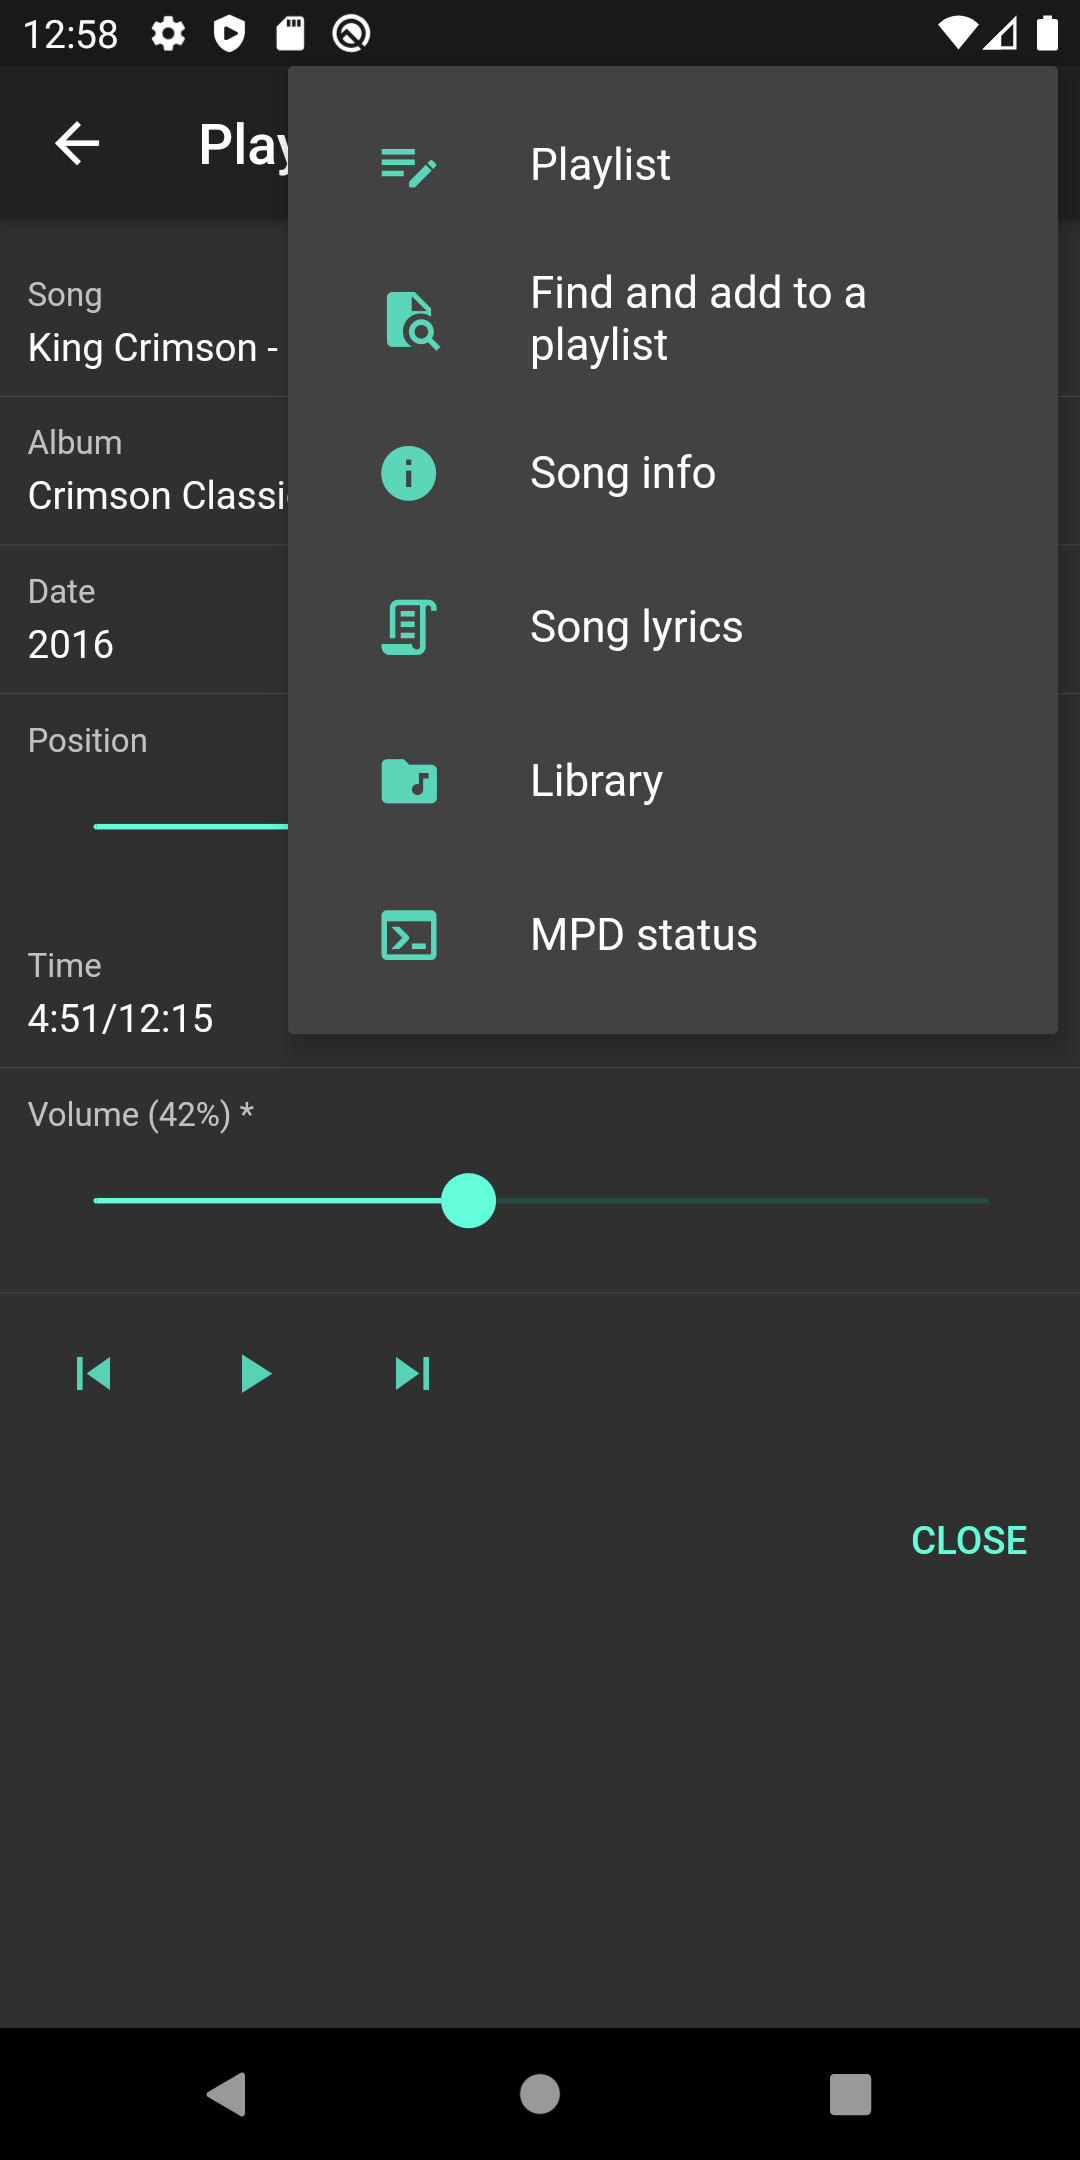
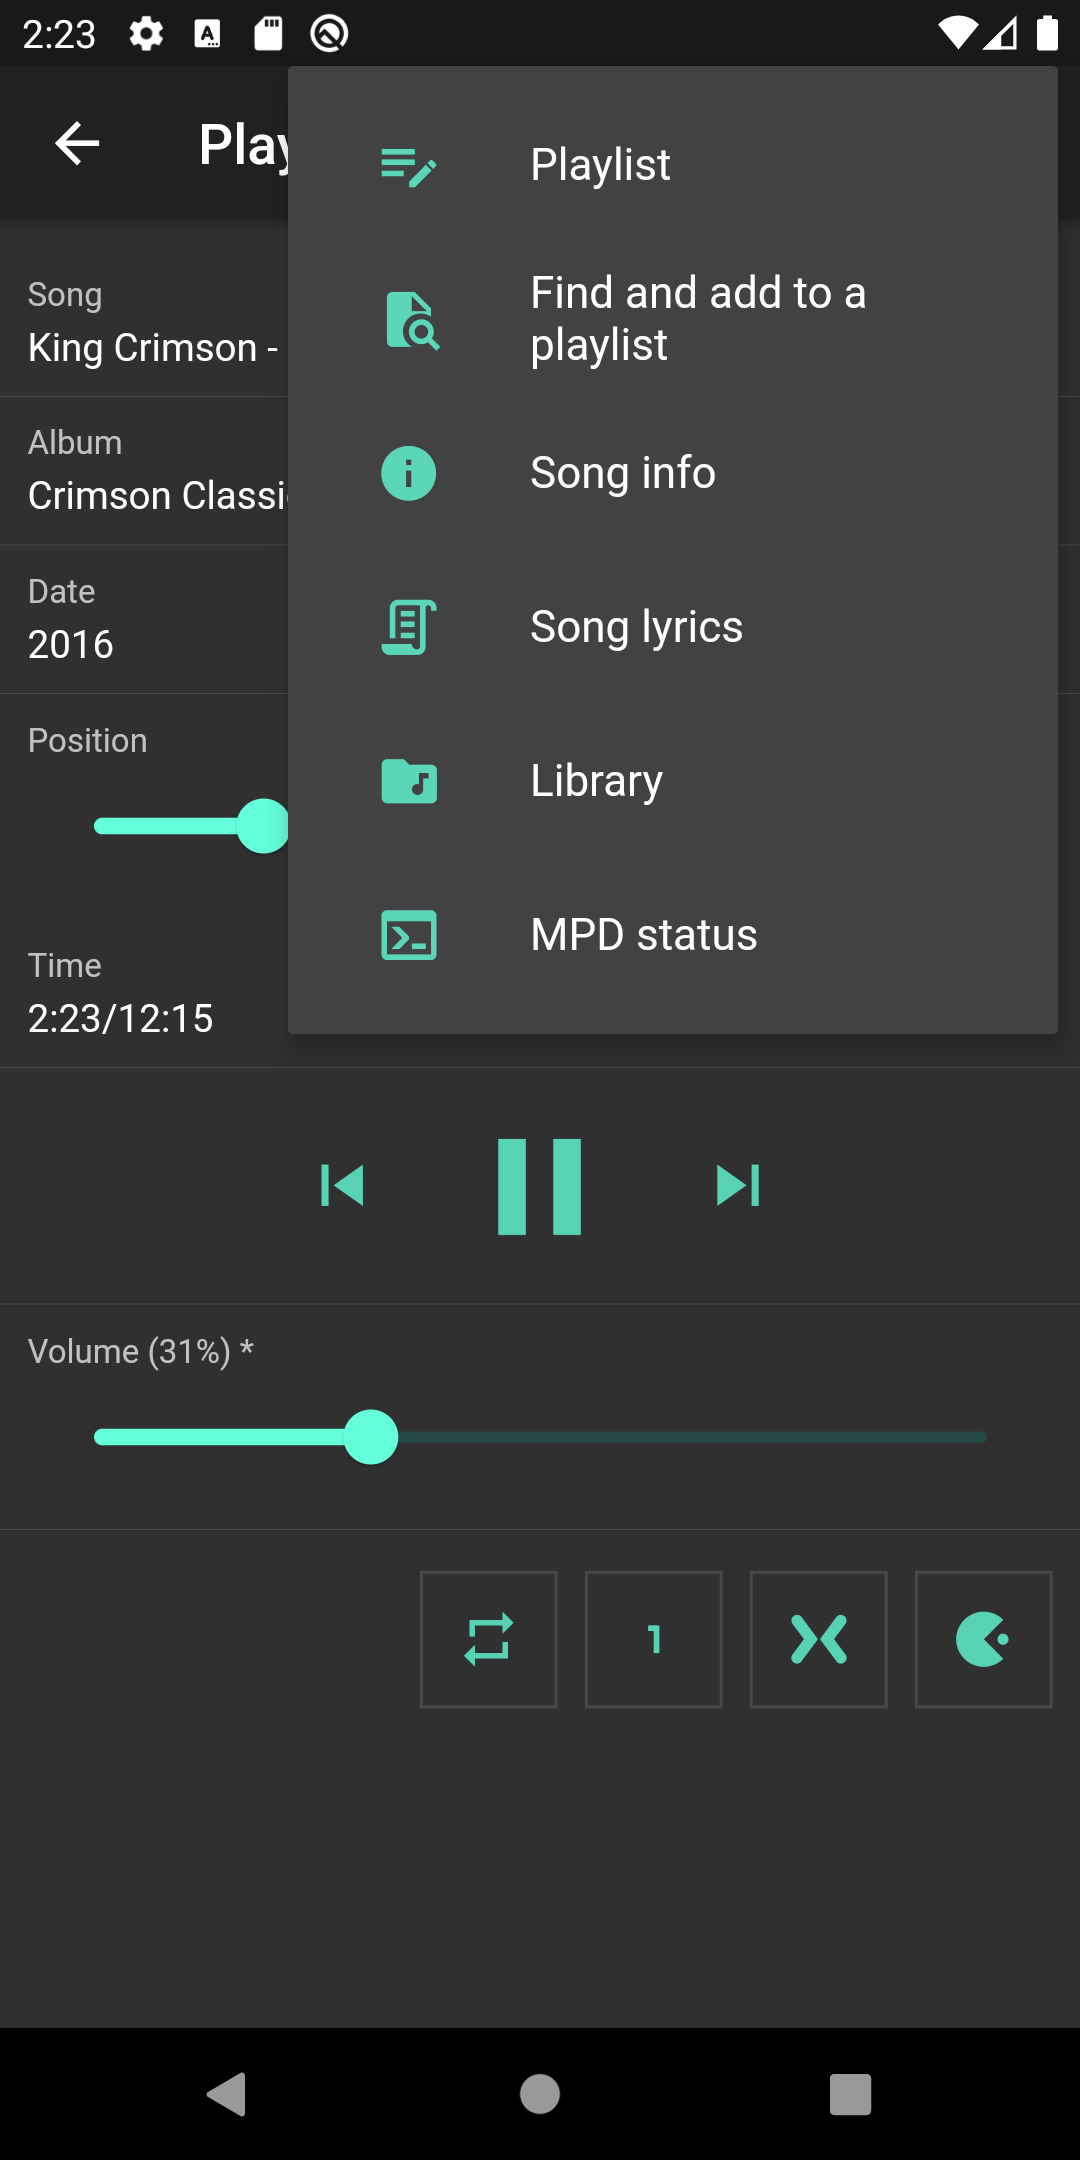
Enhancements in the MPD knowledge base.

diff --git a/sponge-kb/sponge-kb-mpd-mpc/src/main/resources/sponge/mpd-mpc/mpd_mpc_player.py b/sponge-kb/sponge-kb-mpd-mpc/src/main/resources/sponge/mpd-mpc/mpd_mpc_player.py
@@ -20,14 +20,27 @@ class MpdPlayer(Action):
                 ProvidedMeta().withValue().withOverwrite().withSubmittable()),
             StringType("time").withLabel("Time").withNullable().withReadOnly().withFeatures({"group":"position"}).withProvided(
                 ProvidedMeta().withValue()),
-            IntegerType("volume").withLabel("Volume").withAnnotated().withMinValue(0).withMaxValue(100).withFeatures({"widget":"slider"}).withProvided(
-                ProvidedMeta().withValue().withOverwrite().withSubmittable().withLazyUpdate()),
-            VoidType("prev").withLabel("Previous").withAnnotated().withFeatures({"icon":"skip-previous", "group":"navigation"}).withProvided(
+
+
+            VoidType("prev").withLabel("Previous").withAnnotated().withFeatures({
+                "icon":IconInfo().withName("skip-previous").withSize(30), "group":"navigation", "align":"center"}).withProvided(
                 ProvidedMeta().withValue().withOverwrite().withSubmittable()),
             BooleanType("play").withLabel("Play").withAnnotated().withFeatures({"group":"navigation"}).withProvided(
                 ProvidedMeta().withValue().withOverwrite().withSubmittable().withLazyUpdate()),
-            VoidType("next").withLabel("Next").withAnnotated().withFeatures({"icon":"skip-next", "group":"navigation"}).withProvided(
-                ProvidedMeta().withValue().withOverwrite().withSubmittable())
+            VoidType("next").withLabel("Next").withAnnotated().withFeatures({"icon":IconInfo().withName("skip-next").withSize(30), "group":"navigation"}).withProvided(
+                ProvidedMeta().withValue().withOverwrite().withSubmittable()),
+
+            IntegerType("volume").withLabel("Volume").withAnnotated().withMinValue(0).withMaxValue(100).withFeatures({"widget":"slider"}).withProvided(
+                ProvidedMeta().withValue().withOverwrite().withSubmittable().withLazyUpdate()),
+
+            BooleanType("repeat").withLabel("Repeat").withAnnotated().withFeatures({"group":"mode", "widget":"toggleButton", "icon":"repeat", "align":"right"}).withProvided(
+                ProvidedMeta().withValue().withOverwrite().withSubmittable().withLazyUpdate()),
+            BooleanType("single").withLabel("Single").withAnnotated().withFeatures({"group":"mode", "widget":"toggleButton", "icon":"numeric-1"}).withProvided(
+                ProvidedMeta().withValue().withOverwrite().withSubmittable().withLazyUpdate()),
+            BooleanType("random").withLabel("Random").withAnnotated().withFeatures({"group":"mode", "widget":"toggleButton", "icon":"mixer"}).withProvided(
+                ProvidedMeta().withValue().withOverwrite().withSubmittable().withLazyUpdate()),
+            BooleanType("consume").withLabel("Consume").withAnnotated().withFeatures({"group":"mode", "widget":"toggleButton", "icon":"pac-man"}).withProvided(
+                ProvidedMeta().withValue().withOverwrite().withSubmittable().withLazyUpdate())
         ]).withNonCallable().withActivatable()
         self.withFeatures({"refreshEvents":["statusPolling", "mpdNotification_.*"], "icon":"music", "contextActions":[
             SubAction("MpdPlaylist"),
@@ -63,6 +76,15 @@ class MpdPlayer(Action):
                     status = mpc.prev()
                 if "next" in context.submit:
                     status = mpc.next()
+
+                if "repeat" in context.submit:
+                    status = mpc.setMode("repeat", context.current["repeat"].value)
+                if "single" in context.submit:
+                    status = mpc.setMode("single", context.current["single"].value)
+                if "random" in context.submit:
+                    status = mpc.setMode("random", context.current["random"].value)
+                if "consume" in context.submit:
+                    status = mpc.setMode("consume", context.current["consume"].value)
             except:
                 sponge.logger.warn("Submit error: {}", sys.exc_info()[1])
 
@@ -91,7 +113,8 @@ class MpdPlayer(Action):
             if "play" in context.provide:
                 status = self.__ensureStatus(mpc, status)
                 playing = mpc.getPlay(status)
-                context.provided["play"] = ProvidedValue().withValue(AnnotatedValue(playing).withFeature("icon", "pause" if playing else "play"))
+                context.provided["play"] = ProvidedValue().withValue(AnnotatedValue(playing).withFeature("icon",
+                        IconInfo().withName("pause" if playing else "play").withSize(60)))
 
             if "prev" in context.provide or "next" in context.provide:
                 status = self.__ensureStatus(mpc, status)
@@ -101,5 +124,18 @@ class MpdPlayer(Action):
             if "next" in context.provide:
                 context.provided["next"] = ProvidedValue().withValue(AnnotatedValue(None).withFeature("enabled",
                         position is not None and size is not None))
+
+            if "repeat" in context.provide or "single" in context.provide or "random" in context.provide or "consume" in context.provide:
+                status = self.__ensureStatus(mpc, status)
+                modes = mpc.getModes(status)
+
+                if "repeat" in context.provide:
+                    context.provided["repeat"] = ProvidedValue().withValue(AnnotatedValue(modes.get("repeat", False)))
+                if "single" in context.provide:
+                    context.provided["single"] = ProvidedValue().withValue(AnnotatedValue(modes.get("single", False)))
+                if "random" in context.provide:
+                    context.provided["random"] = ProvidedValue().withValue(AnnotatedValue(modes.get("random", False)))
+                if "consume" in context.provide:
+                    context.provided["consume"] = ProvidedValue().withValue(AnnotatedValue(modes.get("consume", False)))
         finally:
             mpc.lock.unlock()

diff --git a/sponge-kb/sponge-kb-mpd-mpc/src/main/resources/sponge/mpd-mpc/mpd_mpc_service.py b/sponge-kb/sponge-kb-mpd-mpc/src/main/resources/sponge/mpd-mpc/mpd_mpc_service.py
@@ -295,6 +295,31 @@ class Mpc:
     def setVolume(self, volume):
         return self.__execute("volume", str(volume))
 
+    def getMode(self, mode):
+        return self.getMode(self.getStatus())
+
+    def getModes(self, status):
+        lines = status.splitlines()
+        if len(lines) > 0:
+            matched = re.match(r"volume:\s*(.+)% .*repeat:\s*(on|off) .*random:\s*(on|off) .*single:\s*(on|off) .*consume:\s*(on|off).*", lines[-1])
+            if matched is not None and len(matched.groups()) == 5:
+                return {"repeat":matched.groups()[1] == "on",
+                        "random":matched.groups()[2] == "on",
+                        "single":matched.groups()[3] == "on",
+                        "consume":matched.groups()[4] == "on"}
+        return {}
+
+    def getMode(self, status, mode):
+        lines = status.splitlines()
+        if len(lines) > 0:
+            matched = re.match(r".*{}:\s*(on|off).*".format(mode), lines[-1])
+            if matched is not None and len(matched.groups()) == 1:
+                return matched.groups()[0] == "on"
+        return None
+
+    def setMode(self, mode, value):
+        return self.__execute(mode, "on" if value else "off")
+
     # Events.
 
     def __onMpdEvent(self, event):

diff --git a/sponge-features/src/main/java/org/openksavi/sponge/features/Features.java b/sponge-features/src/main/java/org/openksavi/sponge/features/Features.java
@@ -156,6 +156,16 @@ public final class Features {
 
     public static final String WIDGET_SWITCH = "switch";
 
+    public static final String WIDGET_TOGGLE_BUTTON = "toggleButton";
+
+    public static final String ALIGN = "align";
+
+    public static final String ALIGN_LEFT = "left";
+
+    public static final String ALIGN_CENTER = "center";
+
+    public static final String ALIGN_RIGHT = "right";
+
     public static final String SCROLL = "scroll";
 
     public static final String PROVIDE_VALUE_PAGEABLE = "pageable";
